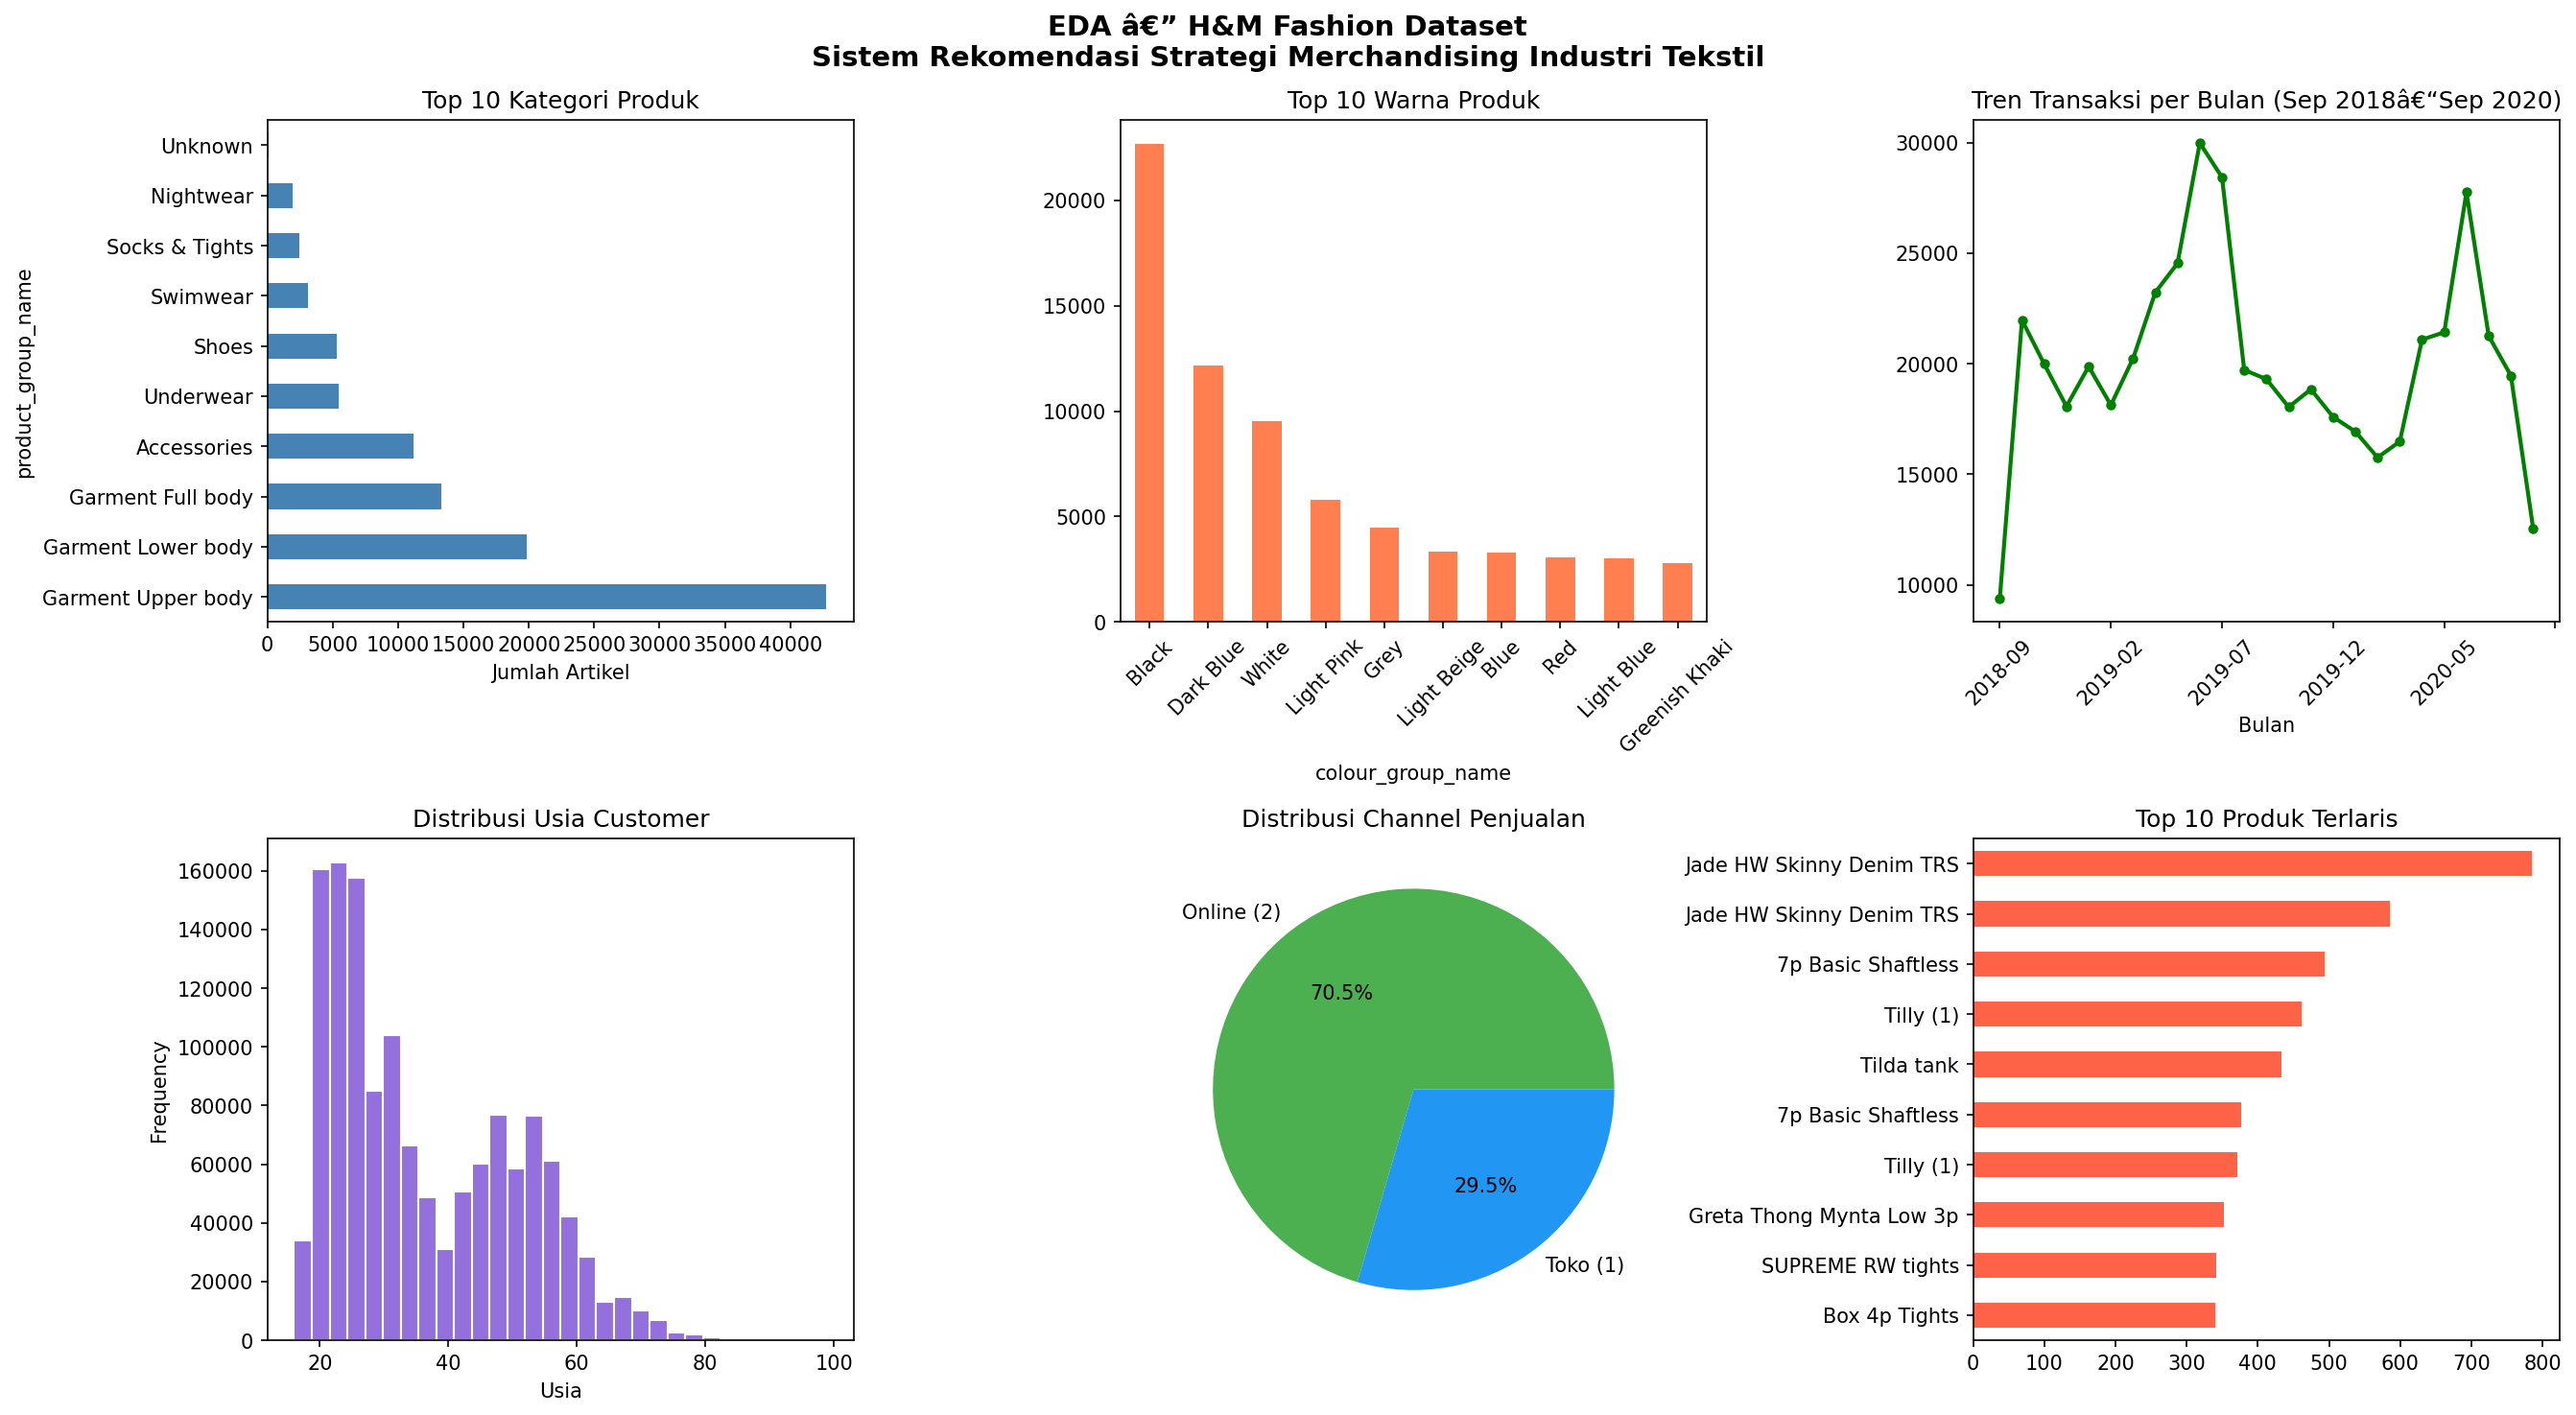
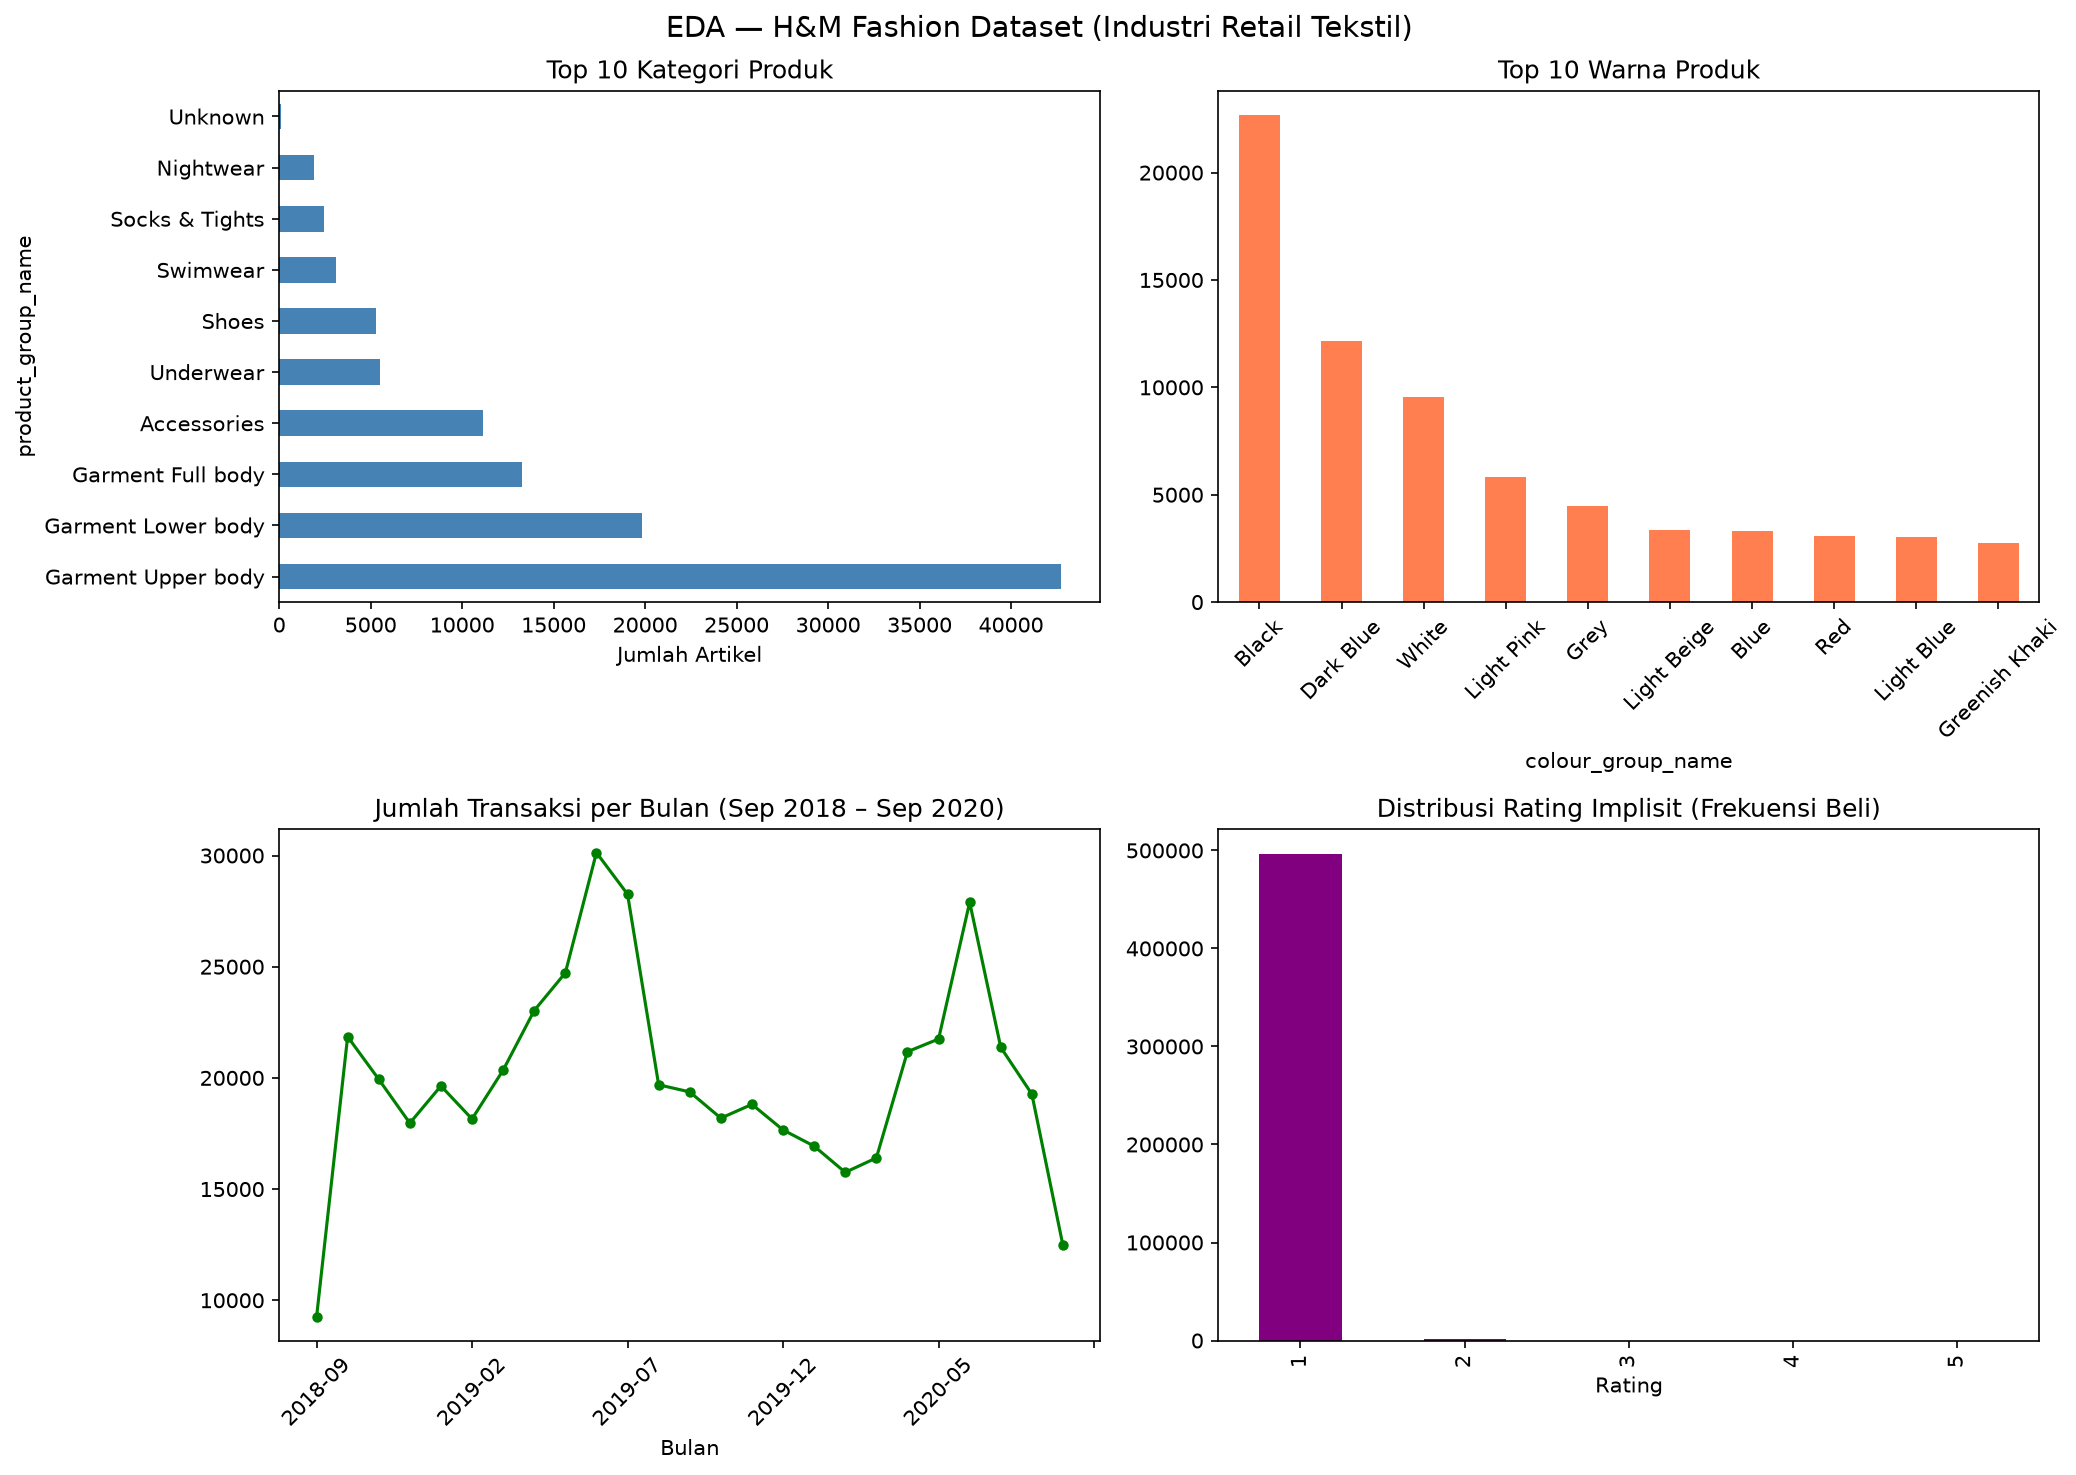
fix backend: path, numpy version, main.py update

diff --git a/notebooks/recsys_fashion.py b/notebooks/recsys_fashion.py
@@ -21,18 +21,16 @@ warnings.filterwarnings('ignore')
 # ============================================================
 print("Loading dataset...")
 
-articles     = pd.read_csv('articles.csv')
-customers    = pd.read_csv('customers.csv')
-
-# Load merata dari seluruh periode — skip rows acak supaya dapat semua bulan
-transactions = pd.read_csv('transactions_train.csv',
+# Ganti menjadi (path absolut atau relatif dari folder notebooks)
+articles     = pd.read_csv('data/articles.csv')
+customers    = pd.read_csv('data/customers.csv')
+transactions = pd.read_csv('data/transactions_train.csv', 
                            dtype={'article_id': str, 'customer_id': str})
-# Ambil sample 500K yang merata dari seluruh periode
 transactions = transactions.sample(n=500000, random_state=42)
 
-print(f"Articles    : {articles.shape}")
-print(f"Customers   : {customers.shape}")
-print(f"Transactions: {transactions.shape}")
+print(f"Articles: {len(articles)}")
+print(f"Customers: {len(customers)}")
+print(f"Transactions sampled: {len(transactions)}")
 
 # ============================================================
 # STEP 2 — PREPROCESSING
@@ -109,7 +107,7 @@ axes[1][1].set_xlabel('Rating')
 
 plt.suptitle('EDA — H&M Fashion Dataset (Industri Retail Tekstil)', fontsize=14)
 plt.tight_layout()
-plt.savefig('eda_fashion.png', dpi=150, bbox_inches='tight')
+plt.savefig('docs/eda_fashion.png', dpi=150, bbox_inches='tight')
 plt.show()
 print("EDA saved: eda_fashion.png")
 
@@ -327,7 +325,7 @@ def visualisasi_hasil(hasil_df, customer_id):
         fontsize=12
     )
     plt.tight_layout()
-    plt.savefig('hasil_rekomendasi_fashion.png', dpi=150, bbox_inches='tight')
+    plt.savefig('docs/hasil_rekomendasi_fashion.png', dpi=150, bbox_inches='tight')
     plt.show()
     print("Saved: hasil_rekomendasi_fashion.png")
 
@@ -368,3 +366,40 @@ evaluasi(n_test=100, top_n=5)
 
 print("\n✅ Selesai!")
 print("Output: eda_fashion.png, hasil_rekomendasi_fashion.png")
+
+# ============================================================
+# SAVE MODELS FOR DEPLOYMENT
+# ============================================================
+print("\nSaving models...")
+
+import joblib
+import os
+
+# Buat folder models jika belum ada
+os.makedirs('models', exist_ok=True)
+
+# Save SVD model
+joblib.dump(svd, 'models/model_svd.pkl')
+print("✅ Saved: model_svd.pkl")
+
+# Save TF-IDF vectorizer and matrix
+joblib.dump(tfidf, 'models/model_tfidf.pkl')
+joblib.dump(cos_sim, 'models/model_cossim.pkl')
+print("✅ Saved: model_tfidf.pkl, model_cossim.pkl")
+
+# Save sample articles and indices
+joblib.dump(sample_articles, 'models/data_sample_articles.pkl')
+joblib.dump(article_idx, 'models/article_idx.pkl')
+print("✅ Saved: data_sample_articles.pkl, article_idx.pkl")
+
+# Save valid customers list
+with open('models/valid_customers.json', 'w') as f:
+    import json
+    json.dump(valid_customers, f)
+print("✅ Saved: valid_customers.json")
+
+# Save ratings for deployment (optional)
+ratings_filtered.to_parquet('models/data_ratings.parquet')
+print("✅ Saved: data_ratings.parquet")
+
+print("All models saved to models/")

diff --git a/fashionrec-backend/app/main.py b/fashionrec-backend/app/main.py
@@ -95,17 +95,18 @@ def load_model():
     global recommender, popular_items, articles_df, ratings_df, valid_customers, transactions_df, monthly_counts_df
 
     # PERBAIKAN PATH UNTUK STRUKTUR backend/app/main.py
+    # PERBAIKAN PATH UNTUK STRUKTUR backend/app/main.py
     current_file = Path(__file__).resolve()
     app_dir = current_file.parent
     backend_dir = app_dir.parent
-    project_root = backend_dir.parent
     
-    model_path = project_root / "models"
-    data_path = project_root / "data"
+    model_path = backend_dir / "models"
+    data_path = backend_dir / "data"
     
-    print(f"📂 Project root: {project_root}")
+
     print(f"📂 Models path: {model_path}")
     print(f"📂 Data path: {data_path}")
+
 
     # 1. Load SVD Model
     try:

diff --git a/fashionrec-backend/README.md b/fashionrec-backend/README.md
@@ -1,0 +1,8 @@
+---
+title: FashionRec Backend
+emoji: "🎽"
+colorFrom: pink
+colorTo: purple
+sdk: docker
+pinned: false
+---